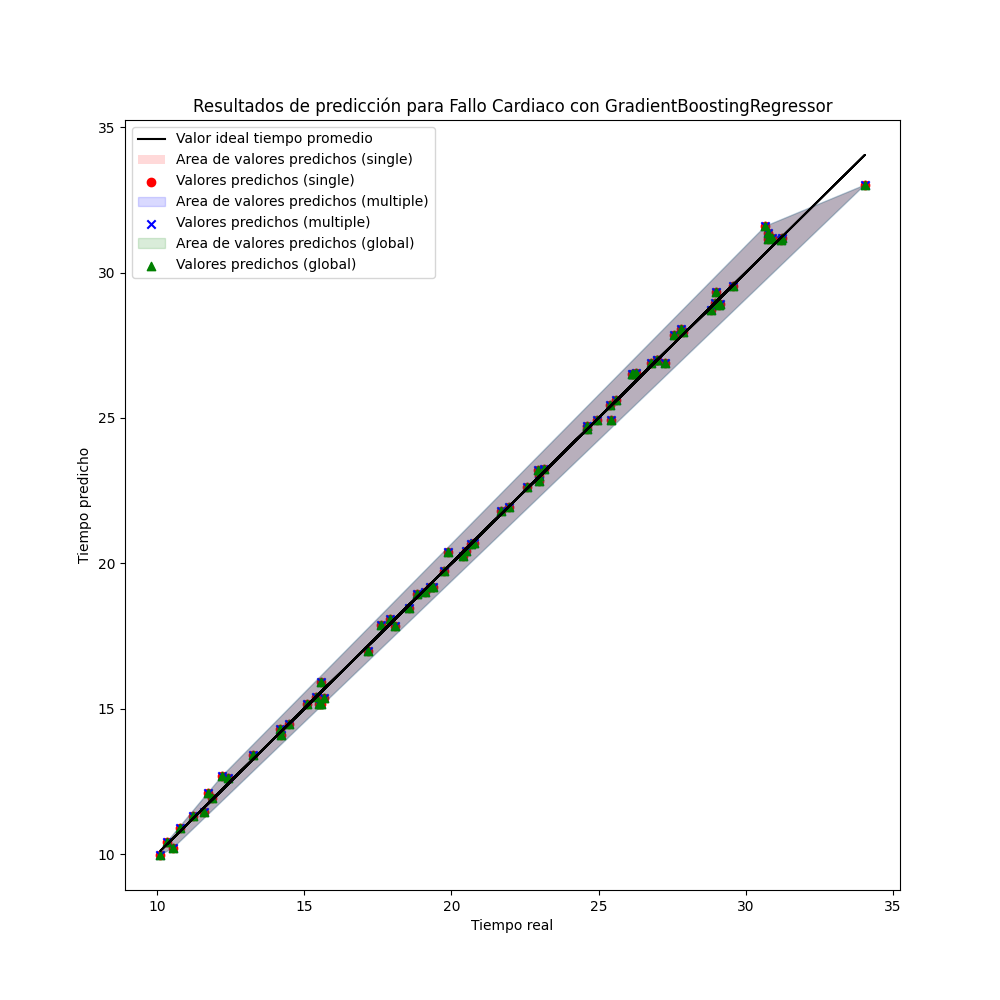
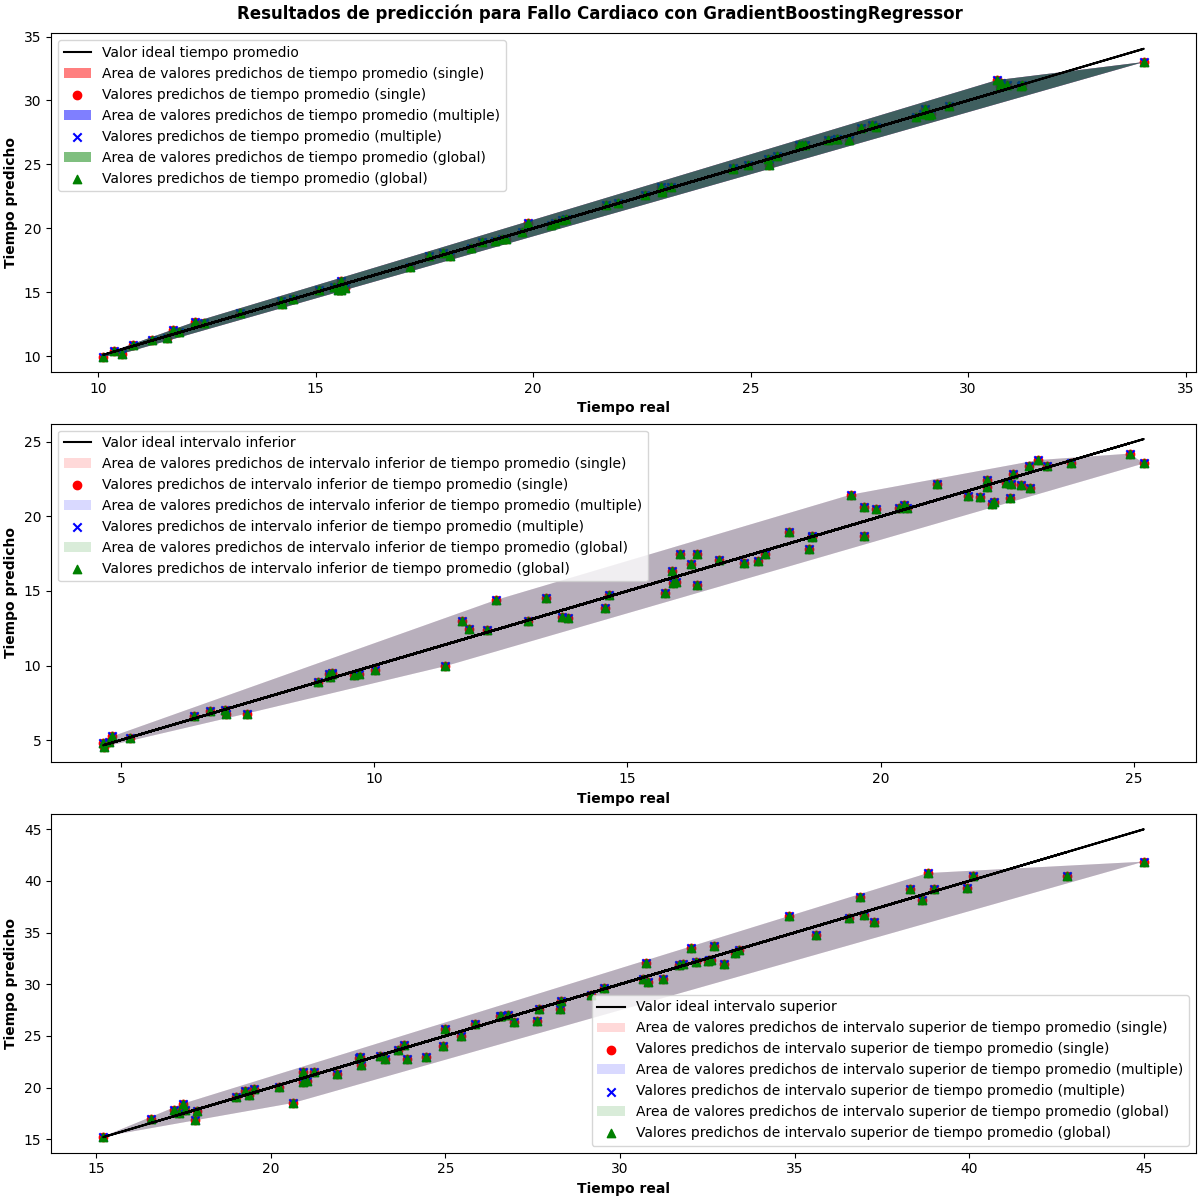
Gráficas de tipos de modelos

diff --git a/src/scripts/compare.py b/src/scripts/compare.py
@@ -304,89 +304,133 @@ def compare_values_by_type(model_list: List[str], path=st.R2_TABLE_DIR) -> None:
 
     # Usar columns_Y para poner como nombre de columna a y_pred_single
     y_pred_single.columns = columns_Y
-    # Quitar columnas que empiezan por L95CI y U95CI
-    y_pred_single = y_pred_single.loc[:, ~y_pred_single.columns.str.startswith('L95CI')]
-    y_pred_single = y_pred_single.loc[:, ~y_pred_single.columns.str.startswith('U95CI')]
+
+    # Crear un switcher para obtener las columnas de y_pred_multiple
     swithcer_multiple = {
-      'Fallo Cardiaco': 0,
-      'Ceguera': 0,
-      'Neuropatía individual': 0,
-      'Microalbuminuria': 0,
-      'Infarto de Miocardio': 3,
-      'Edema macular diabético': 3,
-      'Amputación extremidades inferiores': 3,
-      'Macroalbuminuria': 3,
-      'Angina': 6,
-      'Retinopatía de fondo': 6,
-      'Enfermedad renal terminal': 6,
-      'Ictus': 9,
-      'Retinopatía proliferativa': 9,
+      'Fallo Cardiaco': [0, 1, 2],
+      'Ceguera': [0, 1, 2],
+      'Neuropatía individual':[0, 1, 2],
+      'Microalbuminuria': [0, 1, 2],
+      'Infarto de Miocardio': [3, 4, 5],
+      'Edema macular diabético': [3, 4, 5],
+      'Amputación extremidades inferiores':[3, 4, 5],
+      'Macroalbuminuria':[3, 4, 5],
+      'Angina': [6, 7, 8],
+      'Retinopatía de fondo': [6, 7, 8],
+      'Enfermedad renal terminal':[6, 7, 8],
+      'Ictus': [9, 10, 11],
+      'Retinopatía proliferativa': [9, 10, 11],
     }
 
-    # Drop todas las columnas excepto swithcer.get(model)
-    y_pred_multiple = y_pred_multiple.drop(y_pred_multiple.columns.difference([swithcer_multiple.get(model)]), 1, inplace=False)
-    # Cambiar el nombre de la columna por el primer valor de columns_Y
-    y_pred_multiple.columns = [columns_Y[0]]
+    # Obtener las columnas de y_pred_multiple a partir del switcher
+    y_pred_multiple = y_pred_multiple.iloc[:, swithcer_multiple.get(model)]
 
+    # Cambiar el nombre de la columna por el primer valor de columns_Y
+    y_pred_multiple.columns = columns_Y
+
+    # Crear un switcher para obtener las columnas de y_pred_global
     swithcer_global = {
-      'Fallo Cardiaco': 0,
-      'Infarto de Miocardio': 3,
-      'Angina': 6,
-      'Ictus': 9,
-      'Ceguera': 12,
-      'Edema macular diabético': 15,
-      'Retinopatía de fondo': 18,
-      'Retinopatía proliferativa': 21,
-      'Neuropatía individual': 24,
-      'Amputación extremidades inferiores': 27,
-      'Microalbuminuria': 30,
-      'Macroalbuminuria': 33,
-      'Enfermedad renal terminal': 36,
+      'Fallo Cardiaco': [0, 1, 2],
+      'Infarto de Miocardio': [3, 4, 5],
+      'Angina': [6, 7, 8],
+      'Ictus': [9, 10, 11],
+      'Ceguera': [12, 13, 14],
+      'Edema macular diabético': [15, 16, 17],
+      'Retinopatía de fondo': [18, 19, 20],
+      'Retinopatía proliferativa': [21, 22, 23],
+      'Neuropatía individual': [24, 25, 26],
+      'Amputación extremidades inferiores': [27, 28, 29],
+      'Microalbuminuria': [30, 31, 32],
+      'Macroalbuminuria': [33, 34, 35],
+      'Enfermedad renal terminal': [36, 37, 38],
     }
 
-    # Drop todas las columnas excepto swithcer.get(model)
-    y_pred_global = y_pred_global.drop(y_pred_global.columns.difference([swithcer_global.get(model)]), 1, inplace=False)
-    # Cambiar el nombre de la columna por el primer valor de columns_Y
-    y_pred_global.columns = [columns_Y[0]]
+    # Obtener las columnas de y_pred_multiple a partir del switcher
+    y_pred_global = y_pred_global.iloc[:, swithcer_global.get(model)]
 
-    # Quitar columnas que empiezan por L95CI y U95CI
-    y_test = y_test.loc[:, ~y_test.columns.str.startswith('L95CI')]
-    y_test = y_test.loc[:, ~y_test.columns.str.startswith('U95CI')]
+    # Cambiar el nombre de la columna por el primer valor de columns_Y
+    y_pred_global.columns = columns_Y
 
     # Crear una figura
-    fig, ax = plt.subplots(figsize=(10, 10))
+    fig, ax = plt.subplots(figsize=(12, 12), ncols=1, nrows=3)
 
-    # Crea una malla convenxa
-    single_points = np.column_stack((y_test, y_pred_single))
-    multiple_points = np.column_stack((y_test, y_pred_multiple))
-    global_points = np.column_stack((y_test, y_pred_global))
+    ax = ax.ravel()
 
-    single_hull = ConvexHull(single_points)
-    multiple_hull = ConvexHull(multiple_points)
-    global_hull = ConvexHull(global_points)
+    # Crea una malla convenxa para los tiempo promedio
+    single_avg_points = np.column_stack((y_test.iloc[:, 0], y_pred_single.iloc[:, 0])); single_avg_hull = ConvexHull(single_avg_points)
+    multiple_avg_points = np.column_stack((y_test.iloc[:, 0], y_pred_multiple.iloc[:, 0])); multiple_avg_hull = ConvexHull(multiple_avg_points)
+    global_avg_points = np.column_stack((y_test.iloc[:, 0], y_pred_global.iloc[:, 0]));  global_avg_hull = ConvexHull(global_avg_points)
 
-    # Grafica los valores predichos y los valores reales
-    ax.plot(y_test, y_test, color='black', label='Valor ideal tiempo promedio')
-    ax.fill(single_points[single_hull.vertices, 0], single_points[single_hull.vertices, 1], 'r', alpha=0.15, label='Area de valores predichos (single)')
-    ax.scatter(y_test, y_pred_single, color='red', label='Valores predichos (single)')
+    # Crea una malla convenxa para el intervalo inferior de tiempo promedio
+    single_avg_l95ci_points = np.column_stack((y_test.iloc[:, 1], y_pred_single.iloc[:, 1])); single_avg_l95ci_hull = ConvexHull(single_avg_l95ci_points)
+    multiple_avg_l95ci_points = np.column_stack((y_test.iloc[:, 1], y_pred_multiple.iloc[:, 1])); multiple_avg_l95ci_hull = ConvexHull(multiple_avg_l95ci_points)
+    global_avg_l95ci_points = np.column_stack((y_test.iloc[:, 1], y_pred_global.iloc[:, 1])); global_avg_l95ci_hull = ConvexHull(global_avg_l95ci_points)
 
-    # Grafica los valores reales y los valores predichos de tipo multiple
-    ax.fill(multiple_points[multiple_hull.vertices, 0], multiple_points[multiple_hull.vertices, 1],  color='blue', alpha=0.15, label='Area de valores predichos (multiple)')
-    ax.scatter(y_test, y_pred_multiple, color='blue', marker='x', label='Valores predichos (multiple)')
+    # Crea una malla convenxa para el intervalo superior de tiempo promedio
+    single_avg_u95ci_points = np.column_stack((y_test.iloc[:, 2], y_pred_single.iloc[:, 2])); single_avg_u95ci_hull = ConvexHull(single_avg_u95ci_points)
+    multiple_avg_u95ci_points = np.column_stack((y_test.iloc[:, 2], y_pred_multiple.iloc[:, 2])); multiple_avg_u95ci_hull = ConvexHull(multiple_avg_u95ci_points)
+    global_avg_u95ci_points = np.column_stack((y_test.iloc[:, 2], y_pred_global.iloc[:, 2])); global_avg_u95ci_hull = ConvexHull(global_avg_u95ci_points)
 
-    # Grafica los valores reales y los valores predichos de tipo global
-    ax.fill(global_points[global_hull.vertices, 0], global_points[global_hull.vertices, 1], color='green', alpha=0.15, label='Area de valores predichos (global)')
-    ax.scatter(y_test, y_pred_global, color='green', marker='^', label='Valores predichos (global)')
+    # Grafica los puntos de tiempo promedio ideal
+    ax[0].plot(y_test.iloc[:, 0], y_test.iloc[:, 0], color='black', label='Valor ideal tiempo promedio')
+
+    # Grafica los puntos de tiempo promedio
+    ax[0].fill(single_avg_points[single_avg_hull.vertices, 0], single_avg_points[single_avg_hull.vertices, 1], 'r', alpha=0.15, label='Area de valores predichos de tiempo promedio (single)')
+    ax[0].scatter(y_test.iloc[:, 0], y_pred_single.iloc[:, 0], color='red', label='Valores predichos de tiempo promedio (single)')
+
+    # Grafica los puntos de tiempo promedio
+    ax[0].fill(multiple_avg_points[multiple_avg_hull.vertices, 0], multiple_avg_points[multiple_avg_hull.vertices, 1], 'b', alpha=0.15, label='Area de valores predichos de tiempo promedio (multiple)')
+    ax[0].scatter(y_test.iloc[:, 0], y_pred_multiple.iloc[:, 0],  marker='x', color='blue', label='Valores predichos de tiempo promedio (multiple)')
+
+    # Grafica los puntos de tiempo promedio
+    ax[0].fill(global_avg_points[global_avg_hull.vertices, 0], global_avg_points[global_avg_hull.vertices, 1], 'g', alpha=0.15, label='Area de valores predichos de tiempo promedio (global)')
+    ax[0].scatter(y_test.iloc[:, 0], y_pred_global.iloc[:, 0], color='green',  marker='^', label='Valores predichos de tiempo promedio (global)')
+
+    # Grafica los puntos de tiempo promedio ideal
+    ax[1].plot(y_test.iloc[:, 1], y_test.iloc[:, 1], color='black', label='Valor ideal intervalo inferior')
+
+    # Grafica los puntos de intervalo inferior de tiempo promedio
+    ax[1].fill(single_avg_l95ci_points[single_avg_l95ci_hull.vertices, 0], single_avg_l95ci_points[single_avg_l95ci_hull.vertices, 1] , 'r', alpha=0.15, label='Area de valores predichos de intervalo inferior de tiempo promedio (single)')
+    ax[1].scatter(y_test.iloc[:, 1], y_pred_single.iloc[:, 1],  color='red', label='Valores predichos de intervalo inferior de tiempo promedio (single)')
+
+    # Grafica los puntos de intervalo inferior de tiempo promedio
+    ax[1].fill(multiple_avg_l95ci_points[multiple_avg_l95ci_hull.vertices, 0], multiple_avg_l95ci_points[multiple_avg_l95ci_hull.vertices, 1], 'b', alpha=0.15, label='Area de valores predichos de intervalo inferior de tiempo promedio (multiple)')
+    ax[1].scatter(y_test.iloc[:, 1], y_pred_multiple.iloc[:, 1], marker='x', color='blue', label='Valores predichos de intervalo inferior de tiempo promedio (multiple)')
+
+    # Grafica los puntos de intervalo inferior de tiempo promedio
+    ax[1].fill(global_avg_l95ci_points[global_avg_l95ci_hull.vertices, 0], global_avg_l95ci_points[global_avg_l95ci_hull.vertices, 1], 'g', alpha=0.15, label='Area de valores predichos de intervalo inferior de tiempo promedio (global)')
+    ax[1].scatter(y_test.iloc[:, 1], y_pred_global.iloc[:, 1], color='green',  marker='^', label='Valores predichos de intervalo inferior de tiempo promedio (global)')
+
+    # Grafica los puntos de tiempo promedio ideal
+    ax[2].plot(y_test.iloc[:, 2], y_test.iloc[:, 2], color='black', label='Valor ideal intervalo superior')
+
+    # Grafica los puntos de intervalo superior de tiempo promedio
+    ax[2].fill(single_avg_u95ci_points[single_avg_u95ci_hull.vertices, 0], single_avg_u95ci_points[single_avg_u95ci_hull.vertices, 1], 'r', alpha=0.15, label='Area de valores predichos de intervalo superior de tiempo promedio (single)')
+    ax[2].scatter(y_test.iloc[:, 2], y_pred_single.iloc[:, 2], color='red', label='Valores predichos de intervalo superior de tiempo promedio (single)')
+
+    # Grafica los puntos de intervalo superior de tiempo promedio
+    ax[2].fill(multiple_avg_u95ci_points[multiple_avg_u95ci_hull.vertices, 0], multiple_avg_u95ci_points[multiple_avg_u95ci_hull.vertices, 1], 'b', alpha=0.15, label='Area de valores predichos de intervalo superior de tiempo promedio (multiple)')
+    ax[2].scatter(y_test.iloc[:, 2], y_pred_multiple.iloc[:, 2], marker='x', color='blue', label='Valores predichos de intervalo superior de tiempo promedio (multiple)')
+
+    # Grafica los puntos de intervalo superior de tiempo promedio
+    ax[2].fill(global_avg_u95ci_points[global_avg_u95ci_hull.vertices, 0], global_avg_u95ci_points[global_avg_u95ci_hull.vertices, 1], 'g', alpha=0.15, label='Area de valores predichos de intervalo superior de tiempo promedio (global)')
+    ax[2].scatter(y_test.iloc[:, 2], y_pred_global.iloc[:, 2], color='green',  marker='^', label='Valores predichos de intervalo superior de tiempo promedio (global)')
 
     # Agrega una leyenda
-    ax.legend()
-
-    # Agrega un titulo
-    ax.set_title('Resultados de predicción para ' + model + ' con ' + max_model)
+    ax[0].legend(fontsize='10')
+    ax[1].legend(fontsize='10')
+    ax[2].legend(fontsize='10')
 
     # Agrega etiquetas a los ejes
-    ax.set_xlabel('Tiempo real')
-    ax.set_ylabel('Tiempo predicho')
+    for i in range(3):
+      ax[i].set_xlabel('Tiempo real', fontweight='bold')
+      ax[i].set_ylabel('Tiempo predicho', fontweight='bold')
+
+    # Agrega un titulo
+    fig.suptitle('Resultados de predicción para ' + model + ' con ' + max_model, fontweight='bold')
+
+    # Configura el layout
+    fig.set_layout_engine('compressed')
 
     # Guarda la figura
     fig.savefig(os.path.join(st.PLOTS_DIR, model + '.png'))
